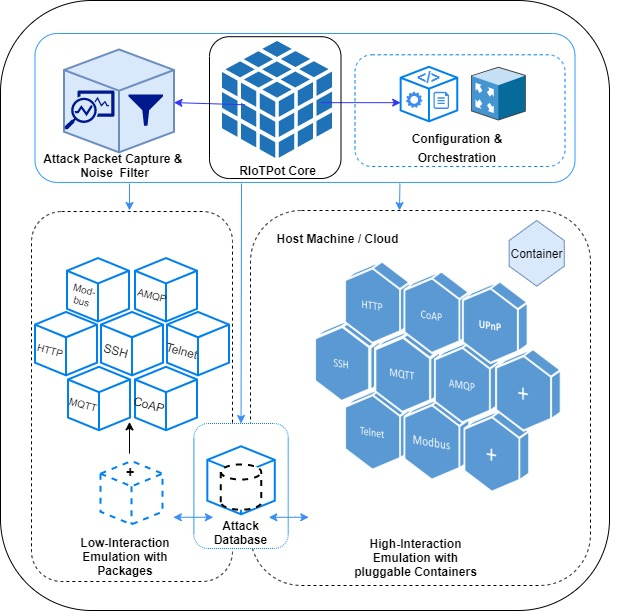
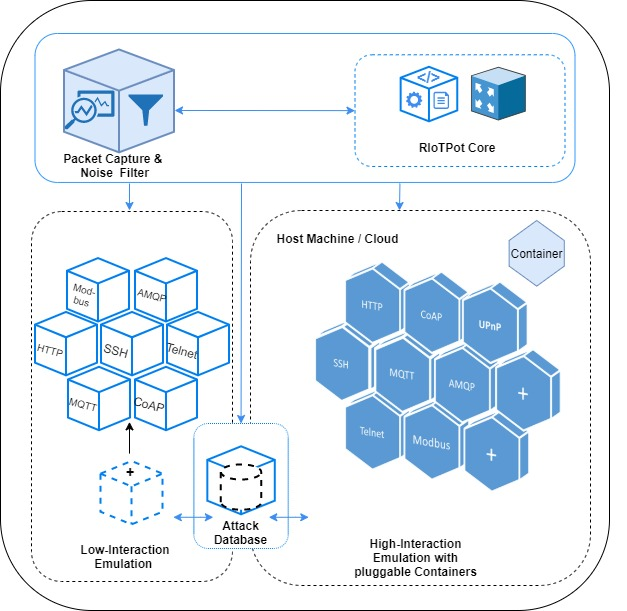
added revised architecture figure.

diff --git a/README.md b/README.md
@@ -77,7 +77,7 @@ list of scanning services filtered by RIoTPot is below:
  16. Net Systems Research (https://www.netsystemsresearch.com/)
  17. Sharashka (https://sharashka.io/data-feeds)
  18. Alpha Strike Labs (https://www.alphastrike.io)
- 19. Stretchoid http://stretchoid.com/)
+ 19. Stretchoid (http://stretchoid.com/)
  
  Note: the list will be updated on support for additional scanning sources. 
 
